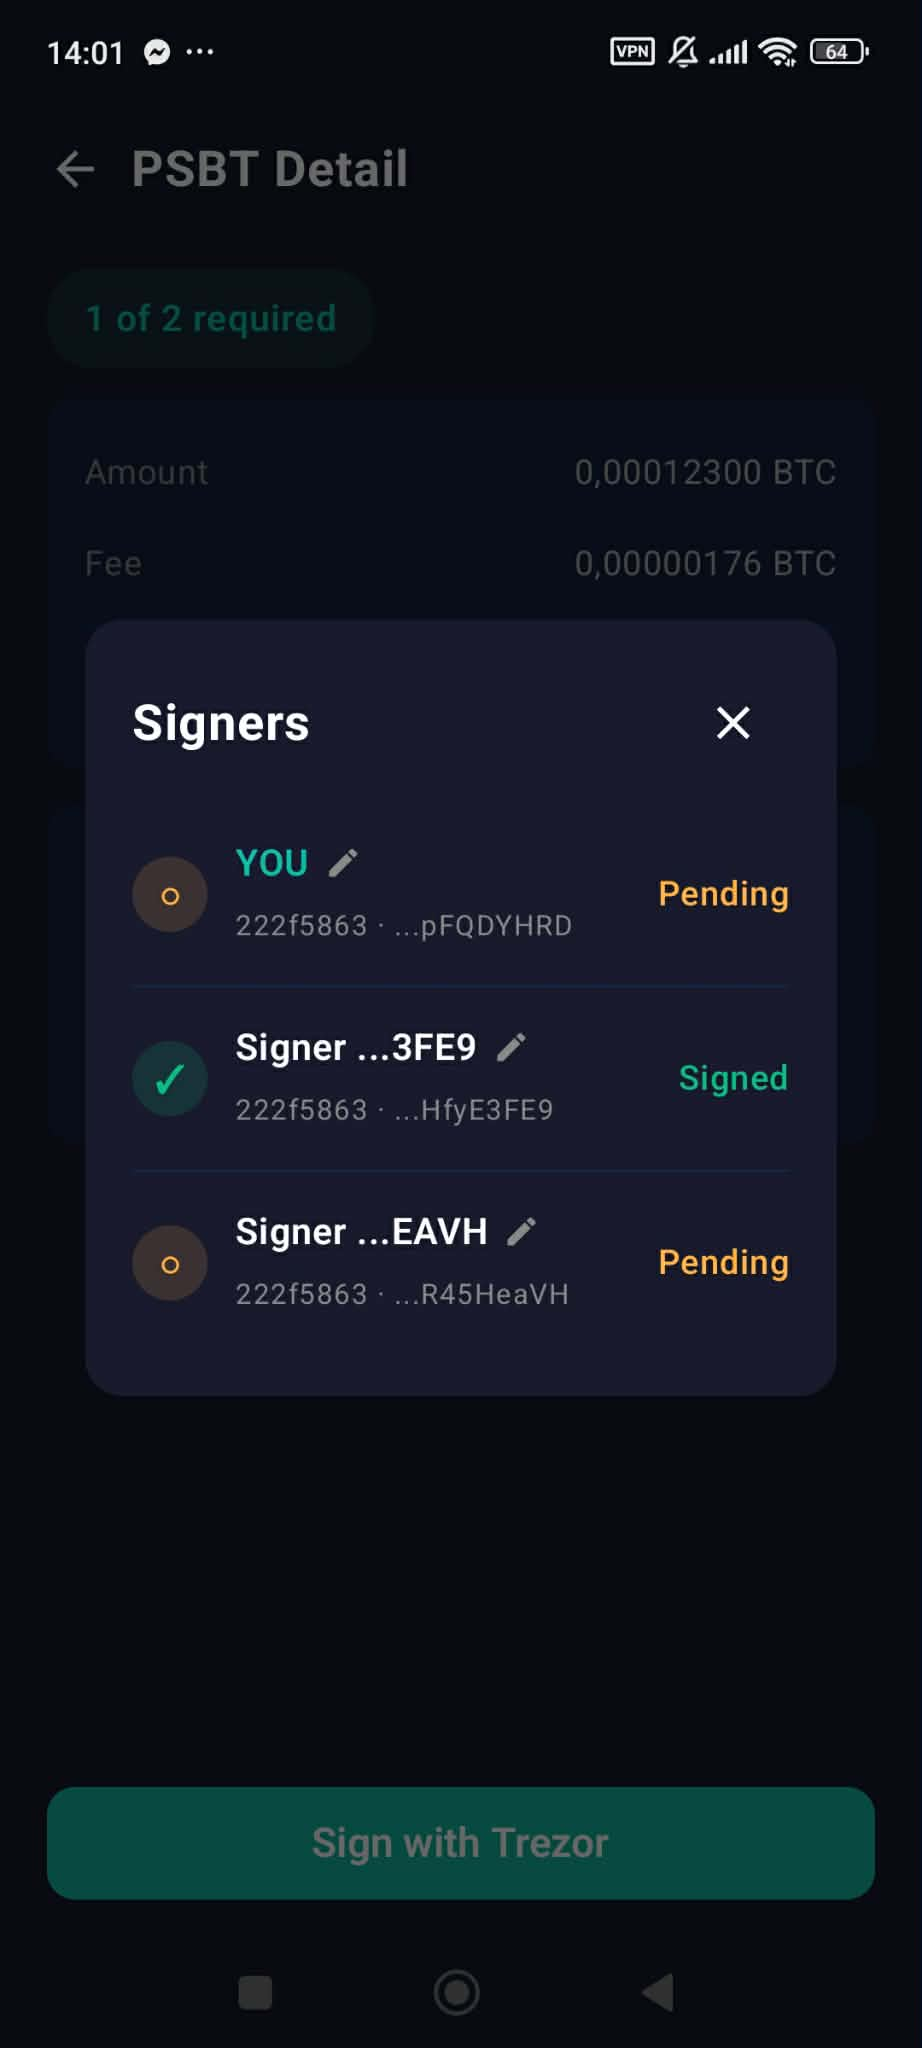
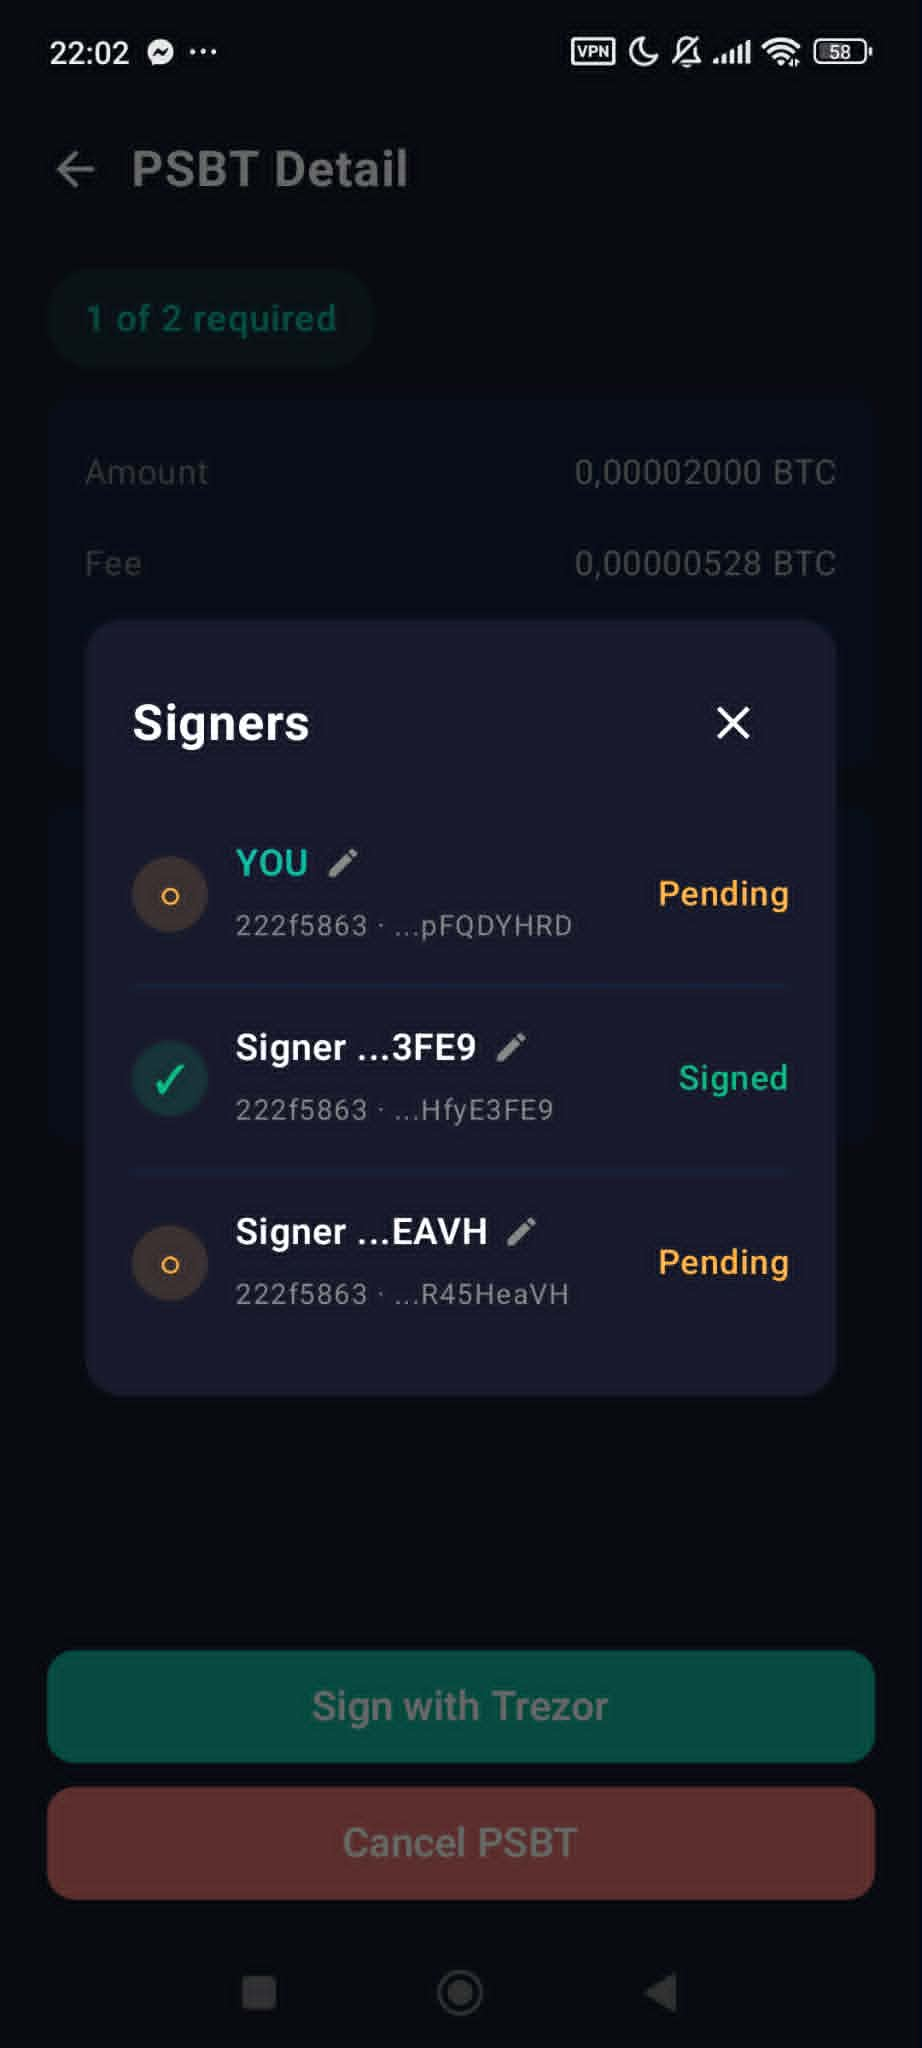
[fix] new screen

diff --git a/DOCS/thesis/kap-uzivatelska.tex b/DOCS/thesis/kap-uzivatelska.tex
@@ -161,7 +161,7 @@ ekvivalent ve zvolené fiat měně (CZK, USD nebo EUR -- volbu měny lze
 změnit v~nastavení aplikace, viz sekci~\ref{sec:user-nastaveni}). Pod
 zůstatkem se nachází chronologický seznam transakcí seřazený od nejnovější;
 u~každé transakce je uvedena částka, směr (odeslaná/přijatá), datum a~čas
-nebo příznak \emph{Pending} u~dosud nepotvrzených transakcí. V~dolní části
+nebo příznak \emph{Unconfirmed} u~dosud nepotvrzených transakcí. V~dolní části
 obrazovky jsou dvě hlavní tlačítka: \emph{Send BTC} pro vytvoření nové
 transakce a~\emph{Receive BTC} pro zobrazení přijímací adresy. V~levém
 horním rohu ikona hamburgeru otevírá postranní navigační menu
@@ -480,9 +480,16 @@ odpovídající aktuálně přihlášenému účtu je označen příznakem \emph
 
 Pokud transakce čeká na podpis aktuálního cosignera, zobrazí se tlačítko
 \emph{Sign with Trezor}, které přesměruje uživatele do Trezor Suite Mobile.
+Po stisknutí tlačítko zšedne a~popisek odráží aktuální fázi
+(\emph{Waiting for Trezor\ldots} během čekání na callback,
+\emph{Processing\ldots} při následném odesílání podpisů na backend),
+což brání opakovanému spuštění deeplinku.
 Návrh transakce, který ještě nebyl odeslán do sítě, lze tlačítkem
 \emph{Cancel PSBT} stáhnout -- backend záznam smaže a~uvolní zarezervované
-UTXO zpět k~použití v~jiné transakci. Po broadcastu se tlačítko skrývá,
+UTXO zpět k~použití v~jiné transakci. Po dobu čekání na Trezor se Cancel PSBT
+skrývá a~místo něj se zobrazí nedestruktivní \emph{Cancel signing}, které
+pouze ukončí čekání, aniž by draft smazalo -- případný pozdě dorazivší
+podpis tak nepadne na neexistující záznam. Po broadcastu obě tlačítka mizí,
 aby zůstal zachován audit záznam již odeslaných transakcí.
 
 \textbf{Doplnění podpisu dalším cosignerem.}
